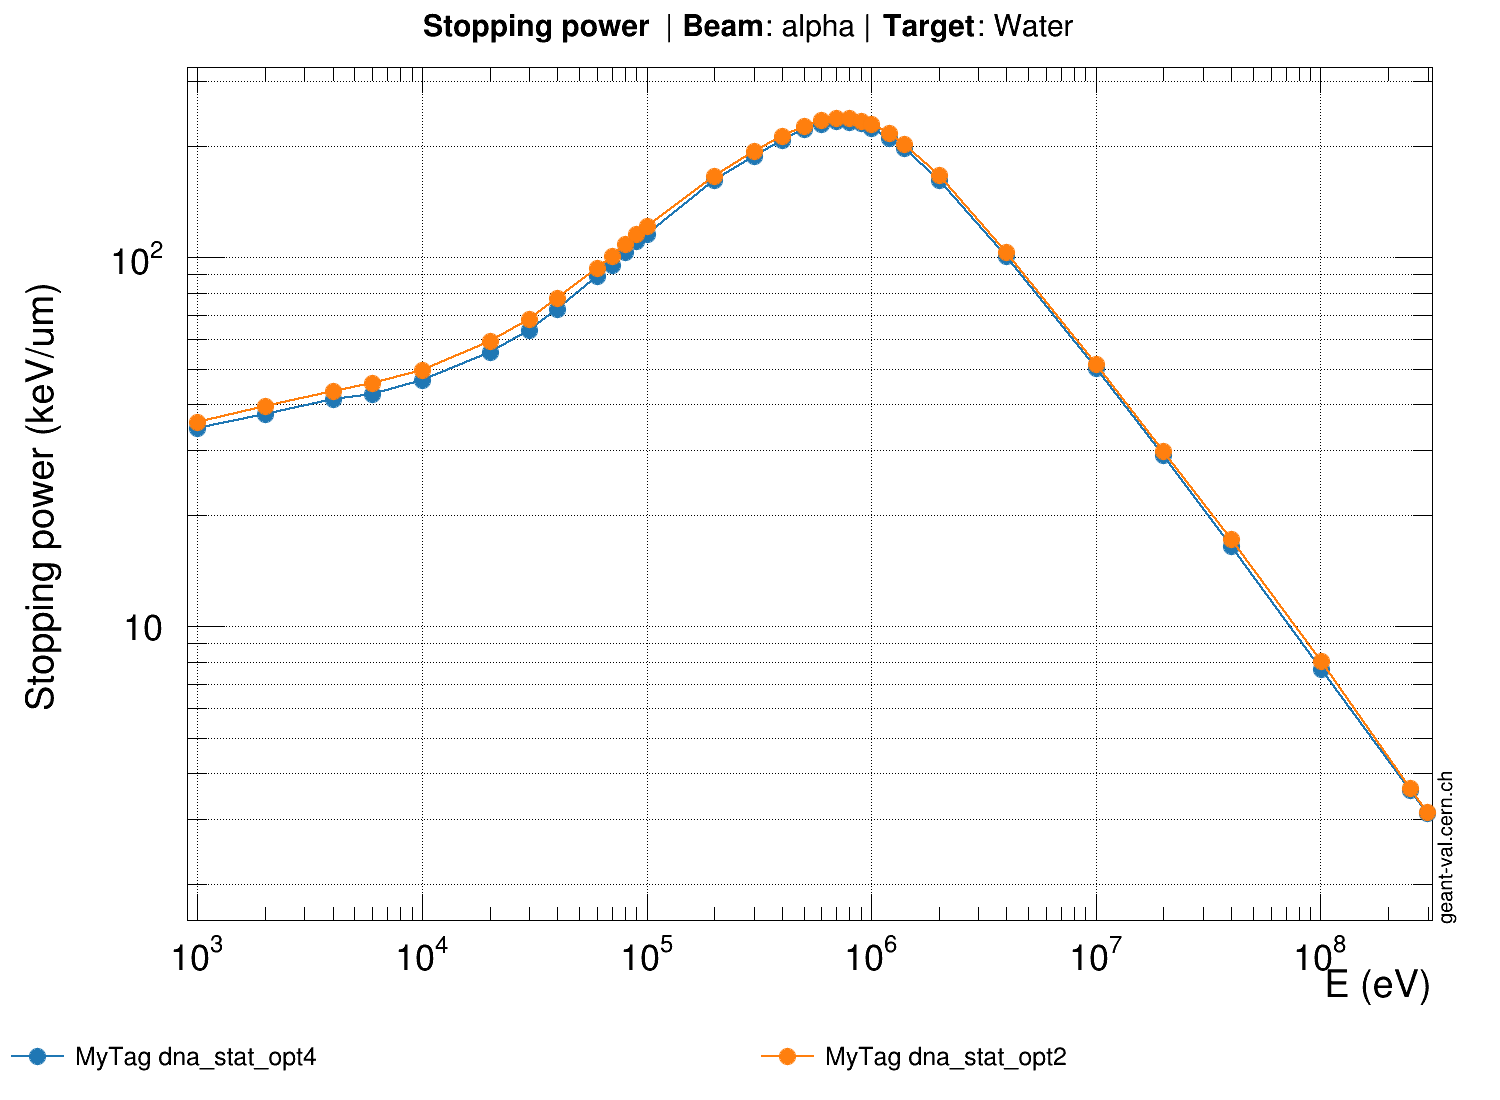
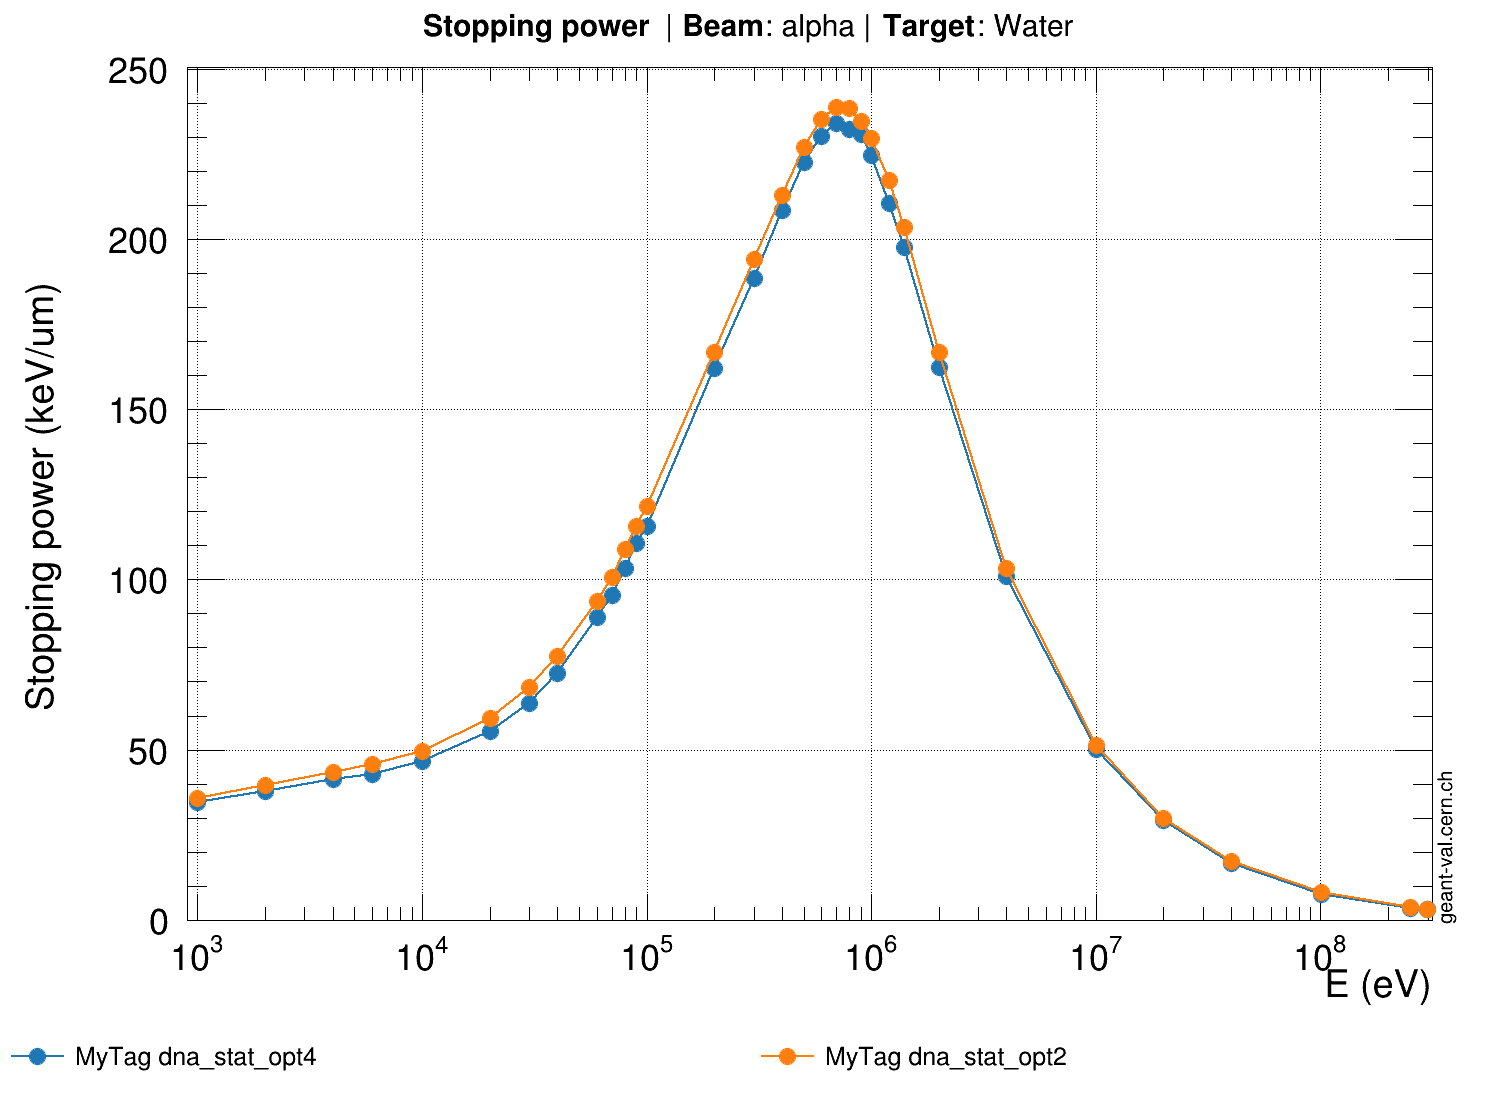
spower/alpha.conf/MyTag : dim. juin  4 20:46:04 CEST 2023

diff --git a/assets/OUTPUTJSON/geant4/MyTag/x86_64/spower/alpha.conf.c b/assets/OUTPUTJSON/geant4/MyTag/x86_64/spower/alpha.conf.c
@@ -8350,3 +8350,291 @@ double gvp_id-1_yerrors[32] = {
   0,
   0
 };
+// Tool:               GEANT4
+// Version:            MyTag
+// Model:              dna_stat_opt4
+// Observable:         stopping power
+// Target:             Water
+// Beam Particle:      alpha
+// Secondary Particle: None
+
+double gvp_id-1_x[32] = {
+  1000,
+  2000,
+  4000,
+  6000,
+  10000,
+  20000,
+  30000,
+  40000,
+  60000,
+  70000,
+  80000,
+  90000,
+  100000,
+  200000,
+  300000,
+  400000,
+  500000,
+  600000,
+  700000,
+  800000,
+  900000,
+  1e+06,
+  1.2e+06,
+  1.4e+06,
+  2e+06,
+  4e+06,
+  1e+07,
+  2e+07,
+  4e+07,
+  1.01e+08,
+  2.5e+08,
+  2.99e+08
+};
+double gvp_id-1_y[32] = {
+  34.5772,
+  37.698,
+  41.3434,
+  42.7933,
+  46.6023,
+  55.5736,
+  63.5463,
+  72.3514,
+  89.0047,
+  95.5218,
+  103.346,
+  110.651,
+  115.691,
+  162.183,
+  188.624,
+  208.505,
+  222.489,
+  230.289,
+  234.062,
+  232.387,
+  230.897,
+  224.77,
+  210.577,
+  197.74,
+  162.354,
+  100.898,
+  50.2785,
+  29.1779,
+  16.5488,
+  7.67027,
+  3.59953,
+  3.11579
+};
+double gvp_id-1_xerrors[32] = {
+  0,
+  0,
+  0,
+  0,
+  0,
+  0,
+  0,
+  0,
+  0,
+  0,
+  0,
+  0,
+  0,
+  0,
+  0,
+  0,
+  0,
+  0,
+  0,
+  0,
+  0,
+  0,
+  0,
+  0,
+  0,
+  0,
+  0,
+  0,
+  0,
+  0,
+  0,
+  0
+};
+double gvp_id-1_yerrors[32] = {
+  0,
+  0,
+  0,
+  0,
+  0,
+  0,
+  0,
+  0,
+  0,
+  0,
+  0,
+  0,
+  0,
+  0,
+  0,
+  0,
+  0,
+  0,
+  0,
+  0,
+  0,
+  0,
+  0,
+  0,
+  0,
+  0,
+  0,
+  0,
+  0,
+  0,
+  0,
+  0
+};
+// Tool:               GEANT4
+// Version:            MyTag
+// Model:              dna_stat_opt2
+// Observable:         stopping power
+// Target:             Water
+// Beam Particle:      alpha
+// Secondary Particle: None
+
+double gvp_id-1_x[32] = {
+  1000,
+  2000,
+  4000,
+  6000,
+  10000,
+  20000,
+  30000,
+  40000,
+  60000,
+  70000,
+  80000,
+  90000,
+  100000,
+  200000,
+  300000,
+  400000,
+  500000,
+  600000,
+  700000,
+  800000,
+  900000,
+  1e+06,
+  1.2e+06,
+  1.4e+06,
+  2e+06,
+  4e+06,
+  1e+07,
+  2e+07,
+  4e+07,
+  1.01e+08,
+  2.5e+08,
+  2.99e+08
+};
+double gvp_id-1_y[32] = {
+  35.7483,
+  39.5454,
+  43.5077,
+  45.6258,
+  49.5919,
+  59.3456,
+  68.2688,
+  77.4961,
+  93.4973,
+  100.82,
+  109.06,
+  115.616,
+  121.568,
+  166.715,
+  194.142,
+  212.89,
+  227.003,
+  235.262,
+  238.815,
+  238.538,
+  234.764,
+  229.771,
+  217.417,
+  203.514,
+  166.784,
+  103.379,
+  51.3324,
+  29.8914,
+  17.2088,
+  8.06457,
+  3.64342,
+  3.13453
+};
+double gvp_id-1_xerrors[32] = {
+  0,
+  0,
+  0,
+  0,
+  0,
+  0,
+  0,
+  0,
+  0,
+  0,
+  0,
+  0,
+  0,
+  0,
+  0,
+  0,
+  0,
+  0,
+  0,
+  0,
+  0,
+  0,
+  0,
+  0,
+  0,
+  0,
+  0,
+  0,
+  0,
+  0,
+  0,
+  0
+};
+double gvp_id-1_yerrors[32] = {
+  0,
+  0,
+  0,
+  0,
+  0,
+  0,
+  0,
+  0,
+  0,
+  0,
+  0,
+  0,
+  0,
+  0,
+  0,
+  0,
+  0,
+  0,
+  0,
+  0,
+  0,
+  0,
+  0,
+  0,
+  0,
+  0,
+  0,
+  0,
+  0,
+  0,
+  0,
+  0
+};
